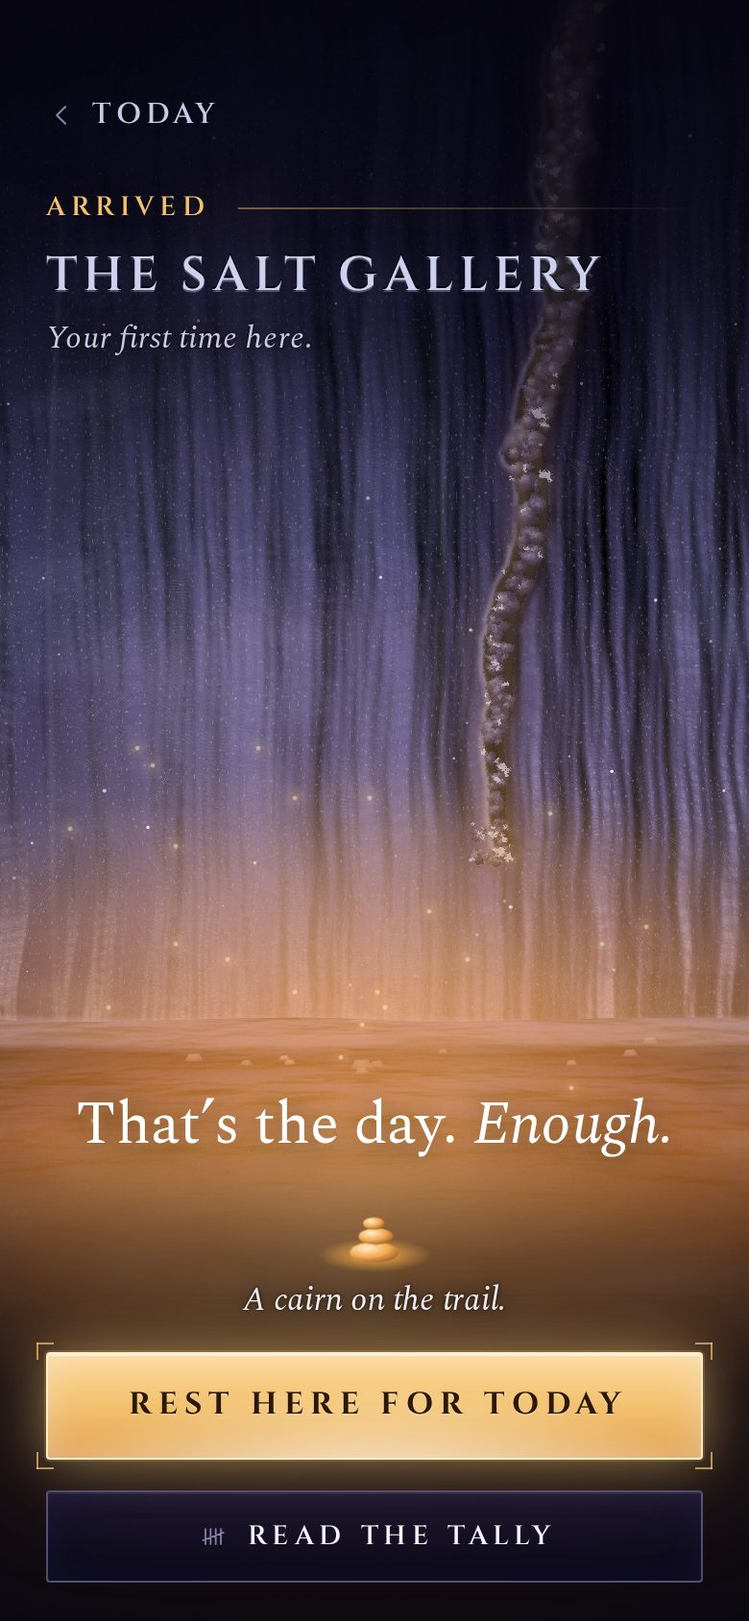
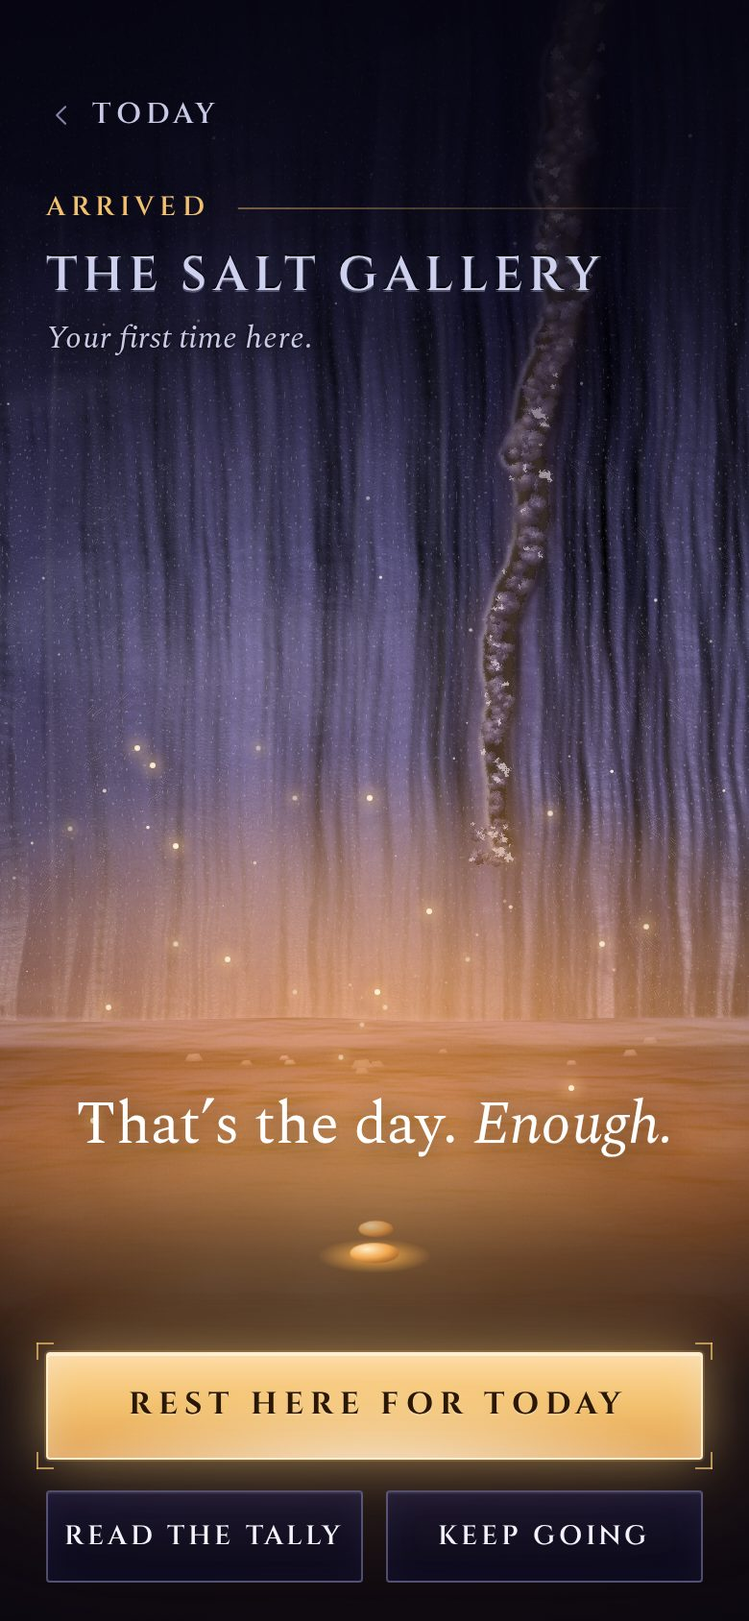
docs: reconcile the outside review of the principles (D-038)
Day complete locks success in with a quiet Keep going; opening screen
shows only today's jobs; the I-can't-start teaser is never new story;
jobs away from the phone have no timer; dated items don't drift to
someday; no catch-up avalanche; tools alone earn nothing; the trail
shows only placed markers; readability beats diegesis. Mock-ups
complete.html and morning.html updated.

Claude-Session: https://claude.ai/code/session_01FV9ry9WcnTVmcCrcWYFGA1

diff --git a/docs/design/directions/d-combined/complete.html b/docs/design/directions/d-combined/complete.html
@@ -55,6 +55,8 @@ body { --pool-x: 50%; --pool-y: 78%; --scrim-top-h: 240px; --scrim-bottom-h: 30%
 /* the way out is there early (by about 2.5 s), even while the scene is still turning gold */
 .bottom { opacity:0; animation: rise 1s 1.4s var(--ease) forwards; }
 .bottom .btn-row { margin-top: 16px; }
+.bottom .btn-row .btn-quiet { padding-left: 8px; padding-right: 8px; letter-spacing: .12em; } /* two quiet choices side by side (D-038) */
+.bottom .btn-row .btn-quiet svg { display: none; }
 .replay svg { width:18px; height:18px; }
 @media (max-height: 800px) { .head { margin-top: 8px; } .cairnrow { margin-top: 4px; } .bottom .btn-row { margin-top: 12px; } }
 
@@ -96,7 +98,7 @@ body { --pool-x: 50%; --pool-y: 78%; --scrim-top-h: 240px; --scrim-bottom-h: 30%
   </div>
   <section class="bottom col">
     <a class="btn resting" href="camp.html">Rest here for today</a>
-    <div class="btn-row"><a class="btn-quiet" href="record.html#fromdone"><svg viewBox="0 0 24 24" aria-hidden="true"><path d="M6 6v12M10 6v12M14 6v12M18 6v12M4 15l16-6"/></svg><span>Read the tally</span></a></div>
+    <div class="btn-row"><a class="btn-quiet" href="record.html#fromdone"><svg viewBox="0 0 24 24" aria-hidden="true"><path d="M6 6v12M10 6v12M14 6v12M18 6v12M4 15l16-6"/></svg><span>Read the tally</span></a><a class="btn-quiet" href="delve-set.html"><span>Keep going</span></a></div>
   </section>
 </div>
 

diff --git a/docs/design/directions/d-combined/morning.html b/docs/design/directions/d-combined/morning.html
@@ -62,7 +62,7 @@ body.h-held .next.st.early.later { display: none; }
     <div class="seg rise d1" role="group" aria-label="How big today is">
       <button aria-pressed="false">Low</button><button aria-pressed="true">Normal</button><button aria-pressed="false">High</button>
     </div>
-    <p class="seg-note rise d1">from last night’s bedtime</p>
+    <p class="seg-note rise d1">suggested by last night’s bedtime</p>
     <section class="ahead rise d2">
       <div class="label-line">Ahead</div>
       <p class="say on-scene">The lintel, on the side wall.<br>It needs a word.</p>
@@ -97,7 +97,7 @@ body.h-held .next.st.early.later { display: none; }
       <div class="label-line gold">Today</div>
       <h2 class="say-lg">That’s the day. Enough.</h2>
       <p class="soft">You reached the Salt Gallery. Camp is by the lamp tonight.</p>
-      <a class="btn gold resting" href="camp.html">To camp</a>
+      <div class="btn-row lead"><a class="btn gold resting" href="camp.html">To camp</a><a class="btn-quiet" href="delve-set.html"><span>Keep going</span></a></div>
       <div style="height:12px"></div>
     </div>
     <div class="rows">

diff --git a/docs/game/TOOLS.md b/docs/game/TOOLS.md
@@ -6,7 +6,7 @@
 _Status: agreed by Dan, 2026-09-24._
 
 ## The rule for every tool (P16)
-A tool earns its place only if (1) using it moves or reveals something in the world, (2) it never creates a pile, a debt or a red number, and (3) it never lets an easy thing stand in for the avoided thing (P5). If a tool can't meet all three, it doesn't go in.
+A tool earns its place only if (1) the real action it helps with moves or reveals something in the world (using the tool on its own, adding, sorting or planning, earns nothing; D-038), (2) it never creates a pile, a debt or a red number, and (3) it never lets an easy thing stand in for the avoided thing (P5). If a tool can't meet all three, it doesn't go in.
 
 ## 1. The focus timer → *the delve*
 The 25/5 Pomodoro that already works for Dan, made into a moment in the world.
@@ -15,11 +15,12 @@ The 25/5 Pomodoro that already works for Dan, made into a moment in the world.
 - **The end must be heard or felt with the phone locked and away** (a requirement for Phase 7).
 - **What a delve earns.** During the day, **main jobs move the world**; the delve is how you do them, and the job's step is the reward (no double count). After day complete, each finished delve earns a step of its own (`CORE_LOOPS.md` Part 4).
 - **A shorter first delve.** After "I can't start" and the tiny step, the offer to continue is "10 minutes?". Minutes count towards the job as usual; a step after day complete still needs a full delve, so nothing becomes farmable.
-- **The break is a short *camp* beat that ends itself.** The find is shown, the camp packs up, and the obvious buttons are "next delve" or "done for now". Nothing to scroll or browse; a gentle sound when the 5 minutes are up. The break is where the phone wins, so it stays small.
+- **The break is a short *camp* beat that ends itself.** The find is shown, the camp packs up, and the obvious button is "Start it now"; "Finish here" stops (D-036). Inside a run Dan set, the next delve starts by itself when the 5 minutes are up (D-037); after a single delve, nothing starts by itself (D-038). Nothing to scroll or browse; a gentle sound when the 5 minutes are up, and no countdown on rest. The break is where the phone wins, so it stays small.
 - **The delve's length is Dan's to set** (Dan, 2026-09-24, D-033). It starts at 25 minutes; before starting, he can raise it to 30, 45 or 60 minutes (60 is the most). The breather stays 5 minutes. Setting it must be a beautiful, tactile control, never typed in (Phase 4 explores a dial, a slider and the lamp's flame). As he raises it, the screen shows **how much further it will take him** (a place beyond the usual reach), as a pull, never as a warning or a debt.
 - **Runs and distance (D-037).** The same screen sets **how many delves** in a run; the route ahead is one line where each delve adds a segment in proportion to its minutes, so four delves go four times as far as one. When a breather ends, the next delve starts by itself. One step = 25 minutes; named places are about a working day apart.
 - **In flow, keep going.** When a delve ends he can carry straight on, and he can **skip the breather** (tapping "Next delve" during it starts the next one at once). Nothing is lost either way: minutes count the same.
 - **A deep delve** is four delves in one sitting, with gaps of up to about 20 minutes allowed between them. It reaches somewhere a single one can't: a deeper chamber, or a find. Long focus is rewarded in kind, not with bigger numbers. An interruption doesn't cost the deep chamber.
+- **Not every job is a delve (D-038).** A job done away from the phone (the gym, cooking, an errand, an appointment) has no ring. Begin marks it under way, Dan goes and does it, and Done on his return plays its steps by the job's usual length (D-037). The app picks the way from the kind of job (desk work is a delve; the rest is not); if it guesses wrong, one tap switches it, and it remembers. No modes to configure.
 - Stopping early loses nothing. Minutes done still count towards the job's hour.
 - **Stepping away (D-036).** An interruption is handled with one quiet button, **"Step away"**: the minutes done are kept, the delve is **held** with its time left, and the breather starts. "Back to the delve · N min left" carries the same delve on; if the interruption runs long, Today offers "Carry on: <job> · N min left" whenever Dan returns that day. The hold belongs to the job, not the screen. Only one delve is held at a time, and it closes at the day's end. The pieces add up to one delve and earn no more than an unbroken one. **"Finish here"** sits beside it: it ends the delve now with every minute counted; for a done-or-not job it asks once, "Is it done?" (Done / Not yet).
 - Anti-farming is unchanged: only time earns, and it slows after about 2 extra hours of the same kind of work.
@@ -31,6 +32,7 @@ For the days Dan has a list ("sort the flat before the visit").
 - **Never on the opening screen.** Opening still shows one next thing (P1). The satchel opens on request, and shows the first handful of items with the rest folded away ("and more").
 - **Ticking an item feels good** (a sound, a line in the Chronicle) **but only moves the expedition** when the item has been accepted as one of the day's main jobs, or after day complete. An easy list can't quietly replace the avoided job (P5, rule 10).
 - **Nothing piles up.** No counts, no overdue marks. Items untouched for about 3 weeks quietly move to *someday*. *Someday* has no count and shows only when searched, or when a good day's suggestion draws from it. Nothing is deleted, and nothing is announced.
+- **Items with a date (D-038).** An item typed with a real date ("renew the passport by 3 Nov") never drifts to *someday*. It is suggested as a main job as the date nears, with no countdown and no red. If the date passes, the app asks once, when Dan next opens it: Done / New date / Let it go.
 - The morning suggestion can draw from the satchel and still leans towards what is avoided (P5). An item Dan swaps away twice isn't suggested again for a week.
 - **Later:** groups ("flat move").
 
@@ -50,7 +52,7 @@ Dan likes streaks; he dislikes *punitive* ones (Phase 0). Research shows that se
 - **Each day complete adds a marker** to a trail through the Site. A **low day counts** (P3). Rest is simply rest: it is not scored and needs no marking to "protect" anything (P12).
 - **Relics come from markers in total**, not from days in a row: about the 7th, 15th, 30th and 50th marker ever placed, and on from there. So there is no "almost there" pressure on day 6, and nothing to save at 11:45 pm.
 - **After a gap, the trail branches from the last marker** rather than starting over. It looks like a route that turned, not a line that snapped. Nothing is lost, and nothing is announced.
-- A days-in-a-row count exists only as a quiet detail, never the main thing shown.
+- **Only markers that were placed are shown** (D-038): no calendar, no empty slots, no ghost markers, and no count of days in a row (it would visibly reset, which is the broken streak this trail exists to avoid). Replaces D-023's "days in a row as a quiet detail".
 - **No weekly runs.** Keys already reward each week, and weeks start fresh (P6).
 - Anti-farming: markers need day complete, which is slot-based, so tiny tasks can't feed them.
 

diff --git a/docs/DESIGN_PRINCIPLES.md b/docs/DESIGN_PRINCIPLES.md
@@ -18,22 +18,22 @@ The app's first job is to get Dan started. Opening it shows one obvious next thi
 
 **2. "Enough" is defined, and it's small.**
 - **Normal day:** about **3 main jobs**.
-- **Low day:** **getting outside plus a real meal** is a complete day.
+- **Low day:** **getting outside plus a real meal** is a complete day. *Clarified 2026-09-24 (D-038):* that is the default low day, not a fixed rule. Swap works as on any day, so any two small real things can make it. A "real meal" is whatever Dan counts as one; the app never asks what he ate.
 
-Anything beyond that is a bonus, never a debt.
+Anything beyond that is a bonus, never a debt. *Clarified (D-038):* day complete means the day's success is **locked in**; nothing after it can undo it. After it, rest is the main offer and a quiet way to keep going is always there, never pushed.
 
 **Low floor, high ceiling** (added 2026-09-23, D-011). The small "enough" is the *floor*, not the design target. On high-capacity days the game must be able to make Dan **very** productive: more jobs, bigger pushes, richer rewards, with no cap that makes extra real effort pointless. The app is built for Dan at full strength as much as for Dan on a low day.
 
 **3. Low days can fully succeed.**
 Capacity is Low, Normal or High.
-- It is **pre-set from last night's bedtime**, and Dan can change it with one tap.
+- It is **suggested from last night's bedtime** (a guess, not a verdict), and Dan can change it with one tap.
 - It changes **how many and how big** the day's jobs are. It never changes whether the day can succeed.
 
 **4. Story pulls, a tiny step pushes.**
-"I can't start" gives **a story reveal first, then one tiny physical step** (e.g. "put your gym shoes on"). Afterwards it *offers* to continue and never demands. Steps are concrete and real, with no cheerleading, so they don't feel patronising.
+"I can't start" gives **a story teaser first, then one tiny physical step** (e.g. "put your gym shoes on"). Afterwards it *offers* to continue and never demands. Steps are concrete and real, with no cheerleading, so they don't feel patronising. *Clarified (D-038):* the teaser is never new story. It is a line from just ahead, a sound behind a door, or something already found; its payoff comes only after the real job (`game/CORE_LOOPS.md` Part 4). Tapping it again the same day brings back the same teaser, so it can't be farmed.
 
 **5. Aim the help at what's avoided.**
-Suggestions lean towards what Dan puts off: admin, Spanish, housework, and one-off jobs with a real cost (the cat's medication). The Claude Code course is absorbing, so it needs less pushing. **One hour of course work counts as done.** More is a bonus, so the course can't crowd out the avoided jobs.
+Suggestions lean towards what Dan puts off: admin, Spanish, housework, and one-off jobs with a real cost (the cat's medication). The Claude Code course is absorbing, so it needs less pushing. **One hour of course work counts as done** (two delves of 25, which with the breather is the hour on the clock; any 50 minutes of delves do it, D-038). More is a bonus, so the course can't crowd out the avoided jobs.
 
 **6. Weekly rhythm, not streaks.**
 Recurring targets are weekly, and Dan set them himself:
@@ -43,14 +43,14 @@ Recurring targets are weekly, and Dan set them himself:
 - Meal prep on Sunday
 - Course: 1 h/day baseline
 
-Each week starts fresh. Misses never carry over.
+Each week starts fresh. Misses never carry over. *Clarified (D-038):* nor do they pile into the rest of the same week. The day's size comes from capacity alone; open targets never add jobs or raise it, and late in the week they are suggested no harder than early on. A disrupted week becomes a lighter week unless Dan asks to catch up.
 
 *Clarified 2026-09-24 (D-030):* **these are Dan's current targets, not built into the app.** Dan can add, change, rename or remove any recurring target, and any kind of job, at any time. Every job name anywhere in the docs or mock-ups (gym, Spanish, the course, the cat's medication) is an example.
 
-*Amended 2026-09-23 (D-020):* **a non-punitive trail** is allowed alongside the weekly rhythm: each day complete adds a marker, relics come from markers in total, and after a gap the trail branches rather than restarting, so nothing ever visibly breaks (`game/TOOLS.md` §5; revised by D-023). Punitive streaks stay excluded.
+*Amended 2026-09-23 (D-020):* **a non-punitive trail** is allowed alongside the weekly rhythm: each day complete adds a marker, relics come from markers in total, and after a gap the trail branches rather than restarting, so nothing ever visibly breaks (`game/TOOLS.md` §5; revised by D-023). Punitive streaks stay excluded. *Clarified (D-038):* the trail shows only markers that were placed: no calendar, no empty slots, no ghost markers, no count of days in a row, nothing that marks a day without a marker.
 
 **7. Nothing piles up.**
-No overdue counts, no red badges, and no list on the opening screen. *Amended 2026-09-23 (D-020):* Dan can keep **lists on request**. Untouched items quietly move to *someday*, with no counts (`game/TOOLS.md` §2). After an absence, the world is still there. Dan sees a short "where you were" and one small, welcoming first step.
+No overdue counts, no red badges, and no backlog on the opening screen. *Clarified (D-038):* the opening screen shows only **today's jobs** (the day's 2–5 main jobs, suggested for today and accepted or swapped), the next one leading. Never satchel items, *someday*, what's left of a weekly target, or any count. *Amended 2026-09-23 (D-020):* Dan can keep **lists on request**. Untouched items quietly move to *someday*, with no counts (`game/TOOLS.md` §2). After an absence, the world is still there. Dan sees a short "where you were" and one small, welcoming first step.
 
 **8. Failure is information.**
 When something is missed, the job waits, shrinks or changes route, or the app asks what happened. No lost progress, no shame, no guilt language (MASTER_BRIEF §16).
@@ -80,7 +80,7 @@ The fiction can be as dark as Dan likes. The app's voice *towards Dan* is plain,
 Sessions in the app are short: in, started, out. The app must never become the thing he does instead. It complements, and does not replace, the activity scheduling his psychologist recommended. It is not treatment.
 
 **16. Every tool is part of the world** (added 2026-09-23, D-020).
-Productivity features (timer, lists, scheduling, calendar, the trail, record of progress) are in, but each one must move or reveal something in the game, must never create a pile, a debt or a red number, and must never let an easy thing stand in for the avoided thing (P5; D-023). Planning stays optional: starting beats planning (P1).
+Productivity features (timer, lists, scheduling, calendar, the trail, record of progress) are in, but each one must move or reveal something in the game, must never create a pile, a debt or a red number, and must never let an easy thing stand in for the avoided thing (P5; D-023). Planning stays optional: starting beats planning (P1). *Clarified (D-038):* tools help real action happen; using a tool on its own (adding, sorting, planning, ticking an item that isn't one of the day's jobs) earns nothing. The world moves only for real action.
 
 ## Still to test in use (not settled)
 

diff --git a/docs/design/INTERACTION_NOTES.md b/docs/design/INTERACTION_NOTES.md
@@ -6,19 +6,20 @@
 **Smooth and quiet every day; cinematic at the big moments only** (taste session, 8B + 8C).
 - Everyday: taps answer at once with a short light swell; screens ease in (≈ 200–300 ms, ease-out); the lamp breathes; fog drifts.
 - Big moments (cutting a word, an arrival): a few seconds of orchestrated motion, then everything settles and the main button is there. The main button never takes longer than ≈ 2.5 s to appear.
+- **Starting is never delayed by motion** (D-038): nothing plays between tapping Begin and the delve starting.
 - `prefers-reduced-motion`: every animation jumps to its settled state.
 
 ## The morning
-Starting needs no decision: **Begin** on a short job starts a single 25-minute delve at once; a job that takes hours (the Course) opens the run screen already set from the job (e.g. 2 delves of 25), so it is one more tap on Begin. Swap and "I can't start" are one tap away. After day complete, morning shows the day as done ("To camp"), not a next job.
+Starting needs no decision: **Begin** on a short desk job starts a single 25-minute delve at once; a job done away from the phone (the gym, cooking, an errand) has no ring: Begin marks it under way and Done on return plays its steps (D-038); a job that takes hours (the Course) opens the run screen already set from the job (e.g. 2 delves of 25), so it is one more tap on Begin. Swap and "I can't start" are one tap away. After day complete, morning shows the day as done ("To camp"), not a next job, with a quiet "Keep going" that opens the run screen (D-038).
 
 ## Setting the delve's length (D-033, Dan's pick: the dial)
 - A ring with four stops: **25, 30, 45, 60 minutes**. Drag the glowing handle round, tap a number, or use the keys.
 - The ring fills in proportion to the time (30 = half, 60 = full) with violet light; the number ticks up; each stop gives a small visual tick and a gentle settle on release (phone vibration is unreliable on the web, so the visual tick carries the feel).
-- Underneath, **the run (D-037)**: one route line. Each delve adds a segment in proportion to its minutes (set the count with − / + or by tapping along the line); the next named place sits at its real distance and lights when the run reaches it; four or more show a side chamber; one plain line gives the finish time. No debt numbers. During the run, the next delve starts by itself when a breather ends.
+- Underneath, **the run (D-037)**: one route line. Each delve adds a segment in proportion to its minutes (set the count with − / + or by tapping along the line); the next named place sits at its real distance and lights when the run reaches it; four or more show a side chamber; one plain line gives the finish time. No debt numbers. During the run, the next delve starts by itself when a breather ends (only inside a run Dan set; after a single delve nothing starts by itself, D-038).
 - The breather stays 5 minutes. B (the hall slider) and C (the flame) are kept in `delve-set-variants.html` for comparison.
 
 ## The delve
-The glowing ring fills with the time left in the middle (D-028); the destination is the headline ("Towards the Salt Gallery"); the tunnel and fog move so the world is visibly travelling. The phone can go away; the end must be heard or felt (Phase 7). **In flow:** "Keep going" at the end; during the breather, "Next delve" starts the next one at once (that is how the breather is skipped), without loss. **Only two ideas, always in the same words:** "Step away" (hold it, I'll be back) and "Finish here" (I'm done, count what I did). Every delve state has at most one main button and one quiet "Finish here"; the Today link at the top is the way back. **Interrupted (D-036):** a quiet "Step away" keeps the minutes, holds the delve and starts the breather, whose main button becomes "Back to the delve · N min left". If he's gone longer, the morning screen's first offer is "Carry on: <job> · N min left". Dan can go anywhere in the app meanwhile; the hold belongs to the job. Beside it, **"Finish here"** ends the delve with every minute counted; a done-or-not job then asks "Is it done?" (Done / Not yet). Never shown as falling short.
+The glowing ring fills with the time left in the middle (D-028); the destination is the headline ("Towards the Salt Gallery"); the tunnel and fog move so the world is visibly travelling. The phone can go away; the end must be heard or felt (Phase 7). **In flow:** "Keep going" at the end; during the breather, "Start it now" starts the next one at once (that is how the breather is skipped), without loss. **Only two ideas, always in the same words:** "Step away" (hold it, I'll be back) and "Finish here" (I'm done, count what I did). Every delve state has at most one main button and one quiet "Finish here"; the Today link at the top is the way back. **Interrupted (D-036):** a quiet "Step away" keeps the minutes, holds the delve and starts the breather, whose main button becomes "Back to the delve · N min left". If he's gone longer, the morning screen's first offer is "Carry on: <job> · N min left". Dan can go anywhere in the app meanwhile; the hold belongs to the job. Beside it, **"Finish here"** ends the delve with every minute counted; a done-or-not job then asks "Is it done?" (Done / Not yet). Never shown as falling short.
 
 ## The map
 Routes draw themselves in, then settle to dust. Tap a place: a crosshair closes on it and its description rises in a box underneath. Places you've walked are warm-lit; places seen but not reached are dim; the unknown is dark.
@@ -36,7 +37,7 @@ The line of marks sits in a clean band on the stone and **never moves**. Tap a m
 The interface fades away. You tap the marks in order; each is cut into the lintel **on the stone's own plane, in perspective**, with light filling the grooves; the word locks in its floating box; the stone sinks; the wall-cups wake one by one down the hall and the view moves towards the opening. The interface returns with "Go through".
 
 ## Day complete (cinematic)
-Violet turns to gold from the floor up; "That's the day. Enough." The main action is resting ("Rest here for today"); reading is quiet and secondary.
+Violet turns to gold from the floor up; "That's the day. Enough." The main action is resting ("Rest here for today"); reading and a quiet "Keep going" are secondary (on a High day it shows the deep route). The day's success is locked in either way (D-038).
 
 ## Sound (later; Claude's recommendation, Dan deferred)
 Room tone and small material sounds (stone, flame, the cut of a mark) everyday; music at arrivals and reveals.

diff --git a/docs/DECISIONS.md b/docs/DECISIONS.md
@@ -397,3 +397,27 @@
 - **Rationale:** rule 10 and P13 (real effort outweighs trivial input); Dan's actual working pattern (hours, not single sessions); story pacing protected (D-013, rule 6); one honest picture of time = distance on the one screen that sets it.
 - **Consequences:** `game/CORE_LOOPS.md` (unit of effort, reward sizes), `game/ECONOMY.md`, `game/PROGRESSION.md`, `game/TOOLS.md` §1, `design/INTERACTION_NOTES.md` and the D mock-up (`delve-set.html`, `delve.html`, `morning.html`) updated. Supersedes D-033's destination list (a single delve no longer names far places).
 - **Reversible:** Yes; the numbers are provisional until the first playable.
+
+## D-038 — Reconciling the outside review of the principles
+- **Date:** 2026-09-24
+- **Context:** ChatGPT reviewed `design/PRINCIPLES_FOR_REVIEW.md` (15 points: 4 blockers, 7 should-fix, 4 nits). Dan asked for a reconciliation pass against the repo, not a blind implementation: a consistency and pressure-risk pass before approving Phase 4, not new design.
+- **Decision:** Each point checked against the source docs. Verdicts: **accepted** 1, 2, 9, 10, 11, 12, 14, 15; **accepted as a wording fix** (the design already said it) 3, 6, 8, 13; **modified** 4, 7; **no design change** 5 (wording only). Changes, all in the source docs:
+  1. **Day complete locks the day's success in.** Rest stays the main offer; a quiet "Keep going" is there on every day (with the deep route on a High day). Fixes a drift in the Phase 4 drafts, which had dropped the "keep going" of `CORE_LOOPS.md` Part 4 and D-011. Mock-ups: `complete.html`, `morning.html#done`.
+  2. **The opening screen shows only today's jobs** (the 2–5 accepted main jobs), never satchel items, *someday*, what's left of a weekly target, or counts. P7 now says "no backlog" instead of "no list".
+  3. **"I can't start" gives a teaser, never new story**: a line from just ahead, a sound, or something already found; the payoff comes after the job; the same teaser returns if tapped again that day. (`CORE_LOOPS.md` Part 4 already said this; P4's "story reveal" was loose.)
+  4. **Not every job is a delve.** A job done away from the phone (gym, cooking, errands, appointments) has no ring: Begin marks it under way, Done on return plays its steps by the job's usual length (D-037). The app picks the way from the kind of job; one tap switches it if wrong. *Modified:* the review's three named execution modes were not adopted; the existing two kinds (timed desk work and jobs with a usual length, D-036/D-037) already cover gym, appointments and errands, so only the Begin rule needed writing down.
+  5. **The breather:** no contradiction in the design. Inside a run Dan set, the next delve starts by itself (Dan's own choice, D-037); "Start it now" skips the breather early. Added: after a single delve nothing starts by itself. Stale button names fixed ("Next delve", "done for now").
+  6. **Rest is never scored or counted against Dan.** The breather's 5 minutes run in the background: a gentle cue, at most a faint line, no numbers.
+  7. **The low day is a default, not a fixed rule.** Outside + a real meal stays the default (Dan's own definition); Swap works as on any day. The app never asks what the meal was. *Modified:* no list of approved substitutions is added.
+  8. **Capacity is a suggestion from bedtime** (the wording now says so; one-tap change was already there).
+  9. **Dated items don't drift to *someday*.** Suggested as the date nears, no countdown or red; after the date, one question on opening: Done / New date / Let it go.
+  10. **No catch-up avalanche.** Open weekly targets never add jobs or raise the day's size, and aren't pushed harder late in the week. A disrupted week becomes a lighter week unless Dan asks.
+  11. **Using a tool alone earns nothing** (adding, sorting, planning); the world moves only for real action. P16 and the tool rule clarified.
+  12. **The trail shows only placed markers**: no calendar, empty slots, ghost markers, or count of days in a row. *This reverses one detail of D-023* (a days-in-a-row count as a quiet detail), which already contradicted the "no streak numbers" rule in the Phase 4 drafts.
+  13. **The course hour = two delves of 25** (the hour on the clock with the breather; any 50 delve minutes).
+  14. **Nothing cinematic delays starting.** Begin starts at once; big moments come after action and a tap settles them.
+  15. **Readability beats diegesis.** Dense screens (satchel, daybook) set text as a steady column on a strong scrim; a scrim is not a frame.
+- **Alternatives:** implement the review as written (adds an execution-mode system and substitution rules nobody needs yet); change nothing (leaves real contradictions: the missing keep-going, the streak count, the list wording).
+- **Rationale:** most points were wording drift between Phase 1–2 docs and the Phase 4 drafts; the real gaps (keep going, dated items, catch-up, non-desk jobs, the streak count) each close with one rule and no new system (rule 12). No sealed or story content touched.
+- **Consequences:** `DESIGN_PRINCIPLES.md` (P2–P7, P16), `ANTI_FEATURES.md`, `game/TOOLS.md`, `game/CORE_LOOPS.md`, `game/QUEST_SYSTEM.md`, `design/UX_PRINCIPLES.md`, `design/INTERACTION_NOTES.md`, `design/DESIGN_SYSTEM.md`, the D mock-ups `complete.html` and `morning.html`. `design/PRINCIPLES_FOR_REVIEW.md` stays as the snapshot that was reviewed.
+- **Reversible:** Yes. Point 12 needs Dan's nod, since it changes a detail he approved in D-023.

diff --git a/docs/design/UX_PRINCIPLES.md b/docs/design/UX_PRINCIPLES.md
@@ -13,25 +13,25 @@
 ## The morning screen carries (Dan, via the model test)
 - Where you are (day · place) and a way to the map.
 - One plain sentence about the sealed thing ahead.
-- Low / Normal / High, visible but quiet, marked "from last night's bedtime".
+- Low / Normal / High, visible but quiet, marked as a suggestion from last night's bedtime; one tap changes it.
 - The one next job, a short teaser under it, Begin and Swap.
-- The day's other jobs as plain rows with their state on the right.
+- Today's other jobs as plain rows with their state on the right. **Only today's jobs** (D-038): never satchel items, *someday*, what's left of a weekly target, or counts. A short slate for today is not a list in the sense of P7.
 - "I can't start", always one tap away.
-- After day complete, the morning screen shows the day as done, not a next job.
+- After day complete, the morning screen shows the day as done, not a next job; camp is the main offer and a quiet "Keep going" is there (D-038).
 
 ## Pressure
 6. **No numbers that can read as debt**: no counts of undone things, no streak numbers, no progress bars. The delve's glowing ring (D-028) is the only progress shape.
 7. **Cairns are shown as a place, never as a row to count.**
-8. **Rest is never timed.** The breather ends by itself with a gentle cue; no countdown on rest.
-9. **On a low day the screen is calm**: the arrival's main button is resting, not reading more.
+8. **Rest is never scored or counted against you** (D-038). The breather's 5 minutes run in the background: a gentle cue at the end, at most a faint line filling, never numbers or a countdown.
+9. **On a low day the screen is calm**: the arrival's main button is resting, not reading more. A quiet "Keep going" is there if the day turns out bigger (D-038).
 
 ## The world
 10. **The painting is the place, drawn to the description**: a long high hall rounded like the inside of a shell, cut stone, dark wall-cups, the clay lamp on its ledge. Painted masses and light, not outlined shapes.
-11. **Every screen stays in the world**, including the satchel and the daybook: finds and lists live in niches, on stone, in lamplight, never on a generic card.
+11. **Every screen stays in the world**, including the satchel and the daybook: finds and lists live in niches, on stone, in lamplight, never on a generic card. **Readability wins over the world** (D-038): dense screens (the satchel, the daybook) set their text as a steady, plain layer over the scene (one column on a strong scrim). A scrim is not a frame (15).
 
 ## Flow
 12. **Every screen has an obvious way back to today**, and each screen's exits go somewhere that makes sense in the day (a delve ends in a breather, the last delve of the day leads to the arrival, the arrival leads to camp).
-13. **Big moments are cinematic and short** (cutting a word, an arrival): a few seconds, then settle. They are done by you (a tap), not only watched.
+13. **Big moments are cinematic and short** (cutting a word, an arrival): a few seconds, then settle. They are done by you (a tap), not only watched. **Nothing cinematic ever stands between Dan and starting a real action** (D-038): Begin starts at once and motion runs alongside; big moments come after action, and a tap settles them.
 
 ## Dan's own rules (from his walkthrough)
 15. **Never frame the world.** No scene in a box or window; the painting fills the phone.

diff --git a/docs/CURRENT_STATE.md b/docs/CURRENT_STATE.md
@@ -4,7 +4,7 @@
 > If Dan asks to work on something that skips substantially ahead of the current phase, point it out and ask whether he deliberately wants to deviate from the sequence (then record any deviation in `DECISIONS.md`).
 > **Spoiler-free file.** Dan reads it. Never put `docs/narrative/sealed/` content here (D-015).
 
-_Last updated: 2026-09-24, late evening (D polished; delve rules D-036/D-037; ChatGPT review of the principles waiting)_
+_Last updated: 2026-09-24, night (outside review of the principles reconciled, D-038; Dan's approval of D next)_
 
 ## Current phase
 
@@ -28,8 +28,10 @@ What happened:
 
 **This session (2026-09-24, evening, branch `claude/phase-4-direction-d-4jifz4`):** D's final fix round done (`design/directions/d-combined/REVISION-2.md`); stepping away and finishing a delve (D-036); distance comes from time, runs of delves set on the dial screen, places a working day apart (D-037); the delve screen relit (bright violet, sparkles); how the map scales written into `design/INTERACTION_NOTES.md`; all principles bundled for an outside review (`design/PRINCIPLES_FOR_REVIEW.md`). Zip: `sh docs/design/tools/netlify_zip.sh out.zip`.
 
+**This session (2026-09-24, night, branch `claude/principles-review-reconciliation-pdjmhw`, which carries all of `claude/phase-4-direction-d-4jifz4`):** ChatGPT's review of the principles reconciled point by point (D-038): 8 accepted, 4 wording-only, 2 modified, 1 no change. Source docs and two D mock-ups (`complete.html`, `morning.html`) updated. Dan still to confirm point 12 (removing the days-in-a-row count from the trail, which changes a D-023 detail).
+
 **Resume here (next session), in order:**
-1. **ChatGPT's review of `design/PRINCIPLES_FOR_REVIEW.md`** (Dan pastes it). Sort each point into act on / decline with reasons; apply what Dan agrees to, in the source docs (`DESIGN_PRINCIPLES.md`, `ANTI_FEATURES.md`, `design/UX_PRINCIPLES.md`, `design/INTERACTION_NOTES.md`, `design/DESIGN_SYSTEM.md`), then rebuild the bundle if useful. Record decisions.
+1. ~~ChatGPT's review of the principles~~ done (D-038). If Dan disagreed with any verdict, revert that point.
 2. Any last notes from Dan on the latest zip; apply them; send a fresh zip.
 3. Optional (offered to Dan): mock the zoomed-out whole-Site map view.
 4. **Dan approves D**, the design system, the interaction notes and the UX principles → tick the Phase 4 exit criteria.
@@ -70,6 +72,7 @@ What happened:
 - 2026-09-24 — Taste session done; brief for the three directions written (D-027).
 - 2026-09-24 — Long visual run: three directions built and critiqued; Dan's combined look D built (D-028 to D-033); outside story review planned (D-034, D-035).
 - 2026-09-24 — D's final polish; delve interruptions and finishing (D-036); distance from time and runs of delves (D-037).
+- 2026-09-24 — Outside review of the principles reconciled (D-038).
 
 ## Unresolved blockers
 

diff --git a/docs/game/CORE_LOOPS.md b/docs/game/CORE_LOOPS.md
@@ -249,7 +249,7 @@ Kept small, one tap each, and never required to progress:
 ### Capacity: low floor, high ceiling (D-011)
 | Day | Main jobs | What the game offers |
 |---|---|---|
-| **Low** | 2 (outside + a real meal) | A short, safe push that still **arrives** somewhere. "That was enough. I still moved forward." |
+| **Low** | 2 (by default outside + a real meal; swappable, D-038) | A short, safe push that still **arrives** somewhere. "That was enough. I still moved forward." |
 | **Normal** | about 3 | A full arrival. |
 | **High** | up to 5, plus open-ended sessions | Dan can call a **deep push** in the morning: a route to places a normal day doesn't reach (deeper chambers, rarer records, harder gates, and sometimes **part of a sign**, D-013). |
 
@@ -263,11 +263,11 @@ Kept small, one tap each, and never required to progress:
 ### The daily loop
 | Moment | What happens |
 |---|---|
-| **Morning** | Capacity is already set from bedtime (one tap to change). Screen: where you stand in the Site, the next gate you can see, and **one** suggested first job (the other two beneath). Accept or swap from a short menu. On a High day: an offer of a deep push. |
-| **Doing a job** | Optional 25-minute timer. Dan leaves the app and does the thing. |
+| **Morning** | Capacity is already suggested from bedtime (one tap to change). Screen: where you stand in the Site, the next gate you can see, and **one** suggested first job (the day's other jobs beneath; only today's, never a backlog, D-038). Accept or swap from a short menu. On a High day: an offer of a deep push. |
+| **Doing a job** | Desk work runs as a delve. A job away from the phone (gym, cooking, errands) has no timer: Dan goes, and taps Done on return (D-038). |
 | **Coming back** | Tap done → the step plays (≈20–40 s) → at most one small choice → out. |
 | **"I can't start"** | A **teaser from just ahead** (a line of script one sign short of meaning, a sound behind the gate). Then one tiny physical step. Then an offer to continue, never a demand. The teaser's payoff is on the other side of the job. |
-| **Day complete** | The arrival. The day is explicitly **enough**. On High days, a quiet "keep going?" with the deep route shown. |
+| **Day complete** | The arrival. The day is explicitly **enough**, and its success is locked in. Rest is the main offer; a quiet "keep going" is there on every day (on High days, with the deep route shown) (D-038). |
 | **Opening late (4 pm)** | No comment on the time. The day shrinks to what fits and can still complete. |
 | **Life happens** | An appointment added afterwards counts as a main job. |
 | **Evening close** | **Camp.** A short wind-down scene. Going to bed by the chosen time → something is waiting at camp in the morning (a decoded line, a map mark). Missing it removes nothing. Bedtime sets tomorrow's capacity. |

diff --git a/docs/game/QUEST_SYSTEM.md b/docs/game/QUEST_SYSTEM.md
@@ -21,7 +21,7 @@ Story beats are **not** quests. They arrive through steps, arrivals and Keys; Da
 
 ## How a real action becomes a quest
 1. **The pool** holds weekly targets still open this week, typed one-offs, great-gate milestones and rhythm things the app notices (never as main jobs, P11).
-2. **Each morning** the app proposes the day's jobs for the capacity: first the job most likely to be avoided that matters this week, then a mix. One is shown first (P1).
+2. **Each morning** the app proposes the day's jobs for the capacity: first the job most likely to be avoided that matters this week, then a mix. One is shown first (P1). **No catch-up avalanche (D-038):** the day's size comes from capacity alone; open weekly targets never add jobs, and late in the week they are suggested no harder than early on. A disrupted week becomes a lighter week unless Dan asks to catch up.
 3. **Dan accepts or swaps** from a short menu. No estimating, tagging or scoring (P9).
 4. **The app learns** quietly from what gets swapped, when things get done and which suggestions work. Dan never configures it.
 

diff --git a/docs/ANTI_FEATURES.md b/docs/ANTI_FEATURES.md
@@ -22,7 +22,7 @@
 | Excluded | Why | Evidence / principle |
 |---|---|---|
 | Overdue counters, red badges, a backlog on the opening screen | Pile-up is a stated trigger for avoidance. Lists on request are allowed (D-020). | Round 5; P7 |
-| Carry-over of missed weekly targets | Each week starts fresh; debt makes restarting harder. | Round 2 (Q5); P6 |
+| Carry-over of missed weekly targets, or catch-up crammed into the rest of the week | Each week starts fresh; debt makes restarting harder. A disrupted week becomes a lighter week unless Dan asks (D-038). | Round 2 (Q5); P6 |
 | A daily quota that makes 1 hour of course work feel like failure | 4 h/day is the ceiling, not the bar; 1 h = done. | Round 2 (Q2); P5 |
 | Scoring sleep outcomes (hours slept, sleep quality) | He can't fully control them, and with ADHD and anxiety this risks sleep anxiety. Bedtime and winding down are rewarded instead. | Round 4; P11 |
 | Scoring rest, or treating rest as a shortfall | Rest is acknowledged, never measured. | Round 2 (Q1); P12 |

diff --git a/docs/design/DESIGN_SYSTEM.md b/docs/design/DESIGN_SYSTEM.md
@@ -35,7 +35,7 @@ Sizes: anything that matters ≥ 16 px; carved labels ≥ 14 px. Fonts are open-
 ## Layout
 - **One centred column**, 24 px gutter (20 px on small phones), 8 px rhythm. Everything aligns to it; rows of links span edge to edge with equal gaps.
 - **Holds at 360 × 780** as well as 390 × 844. The main action sits in the lower third, within thumb reach.
-- Content (text, records, marks) sits **in the open** on the scene, washed by soft scrims, not in panels.
+- Content (text, records, marks) sits **in the open** on the scene, washed by soft scrims, not in panels. Dense text (the satchel, the daybook) gets a strong scrim and a steady column: readability wins (UX 11, D-038).
 
 ## Components
 | Piece | What it is |
